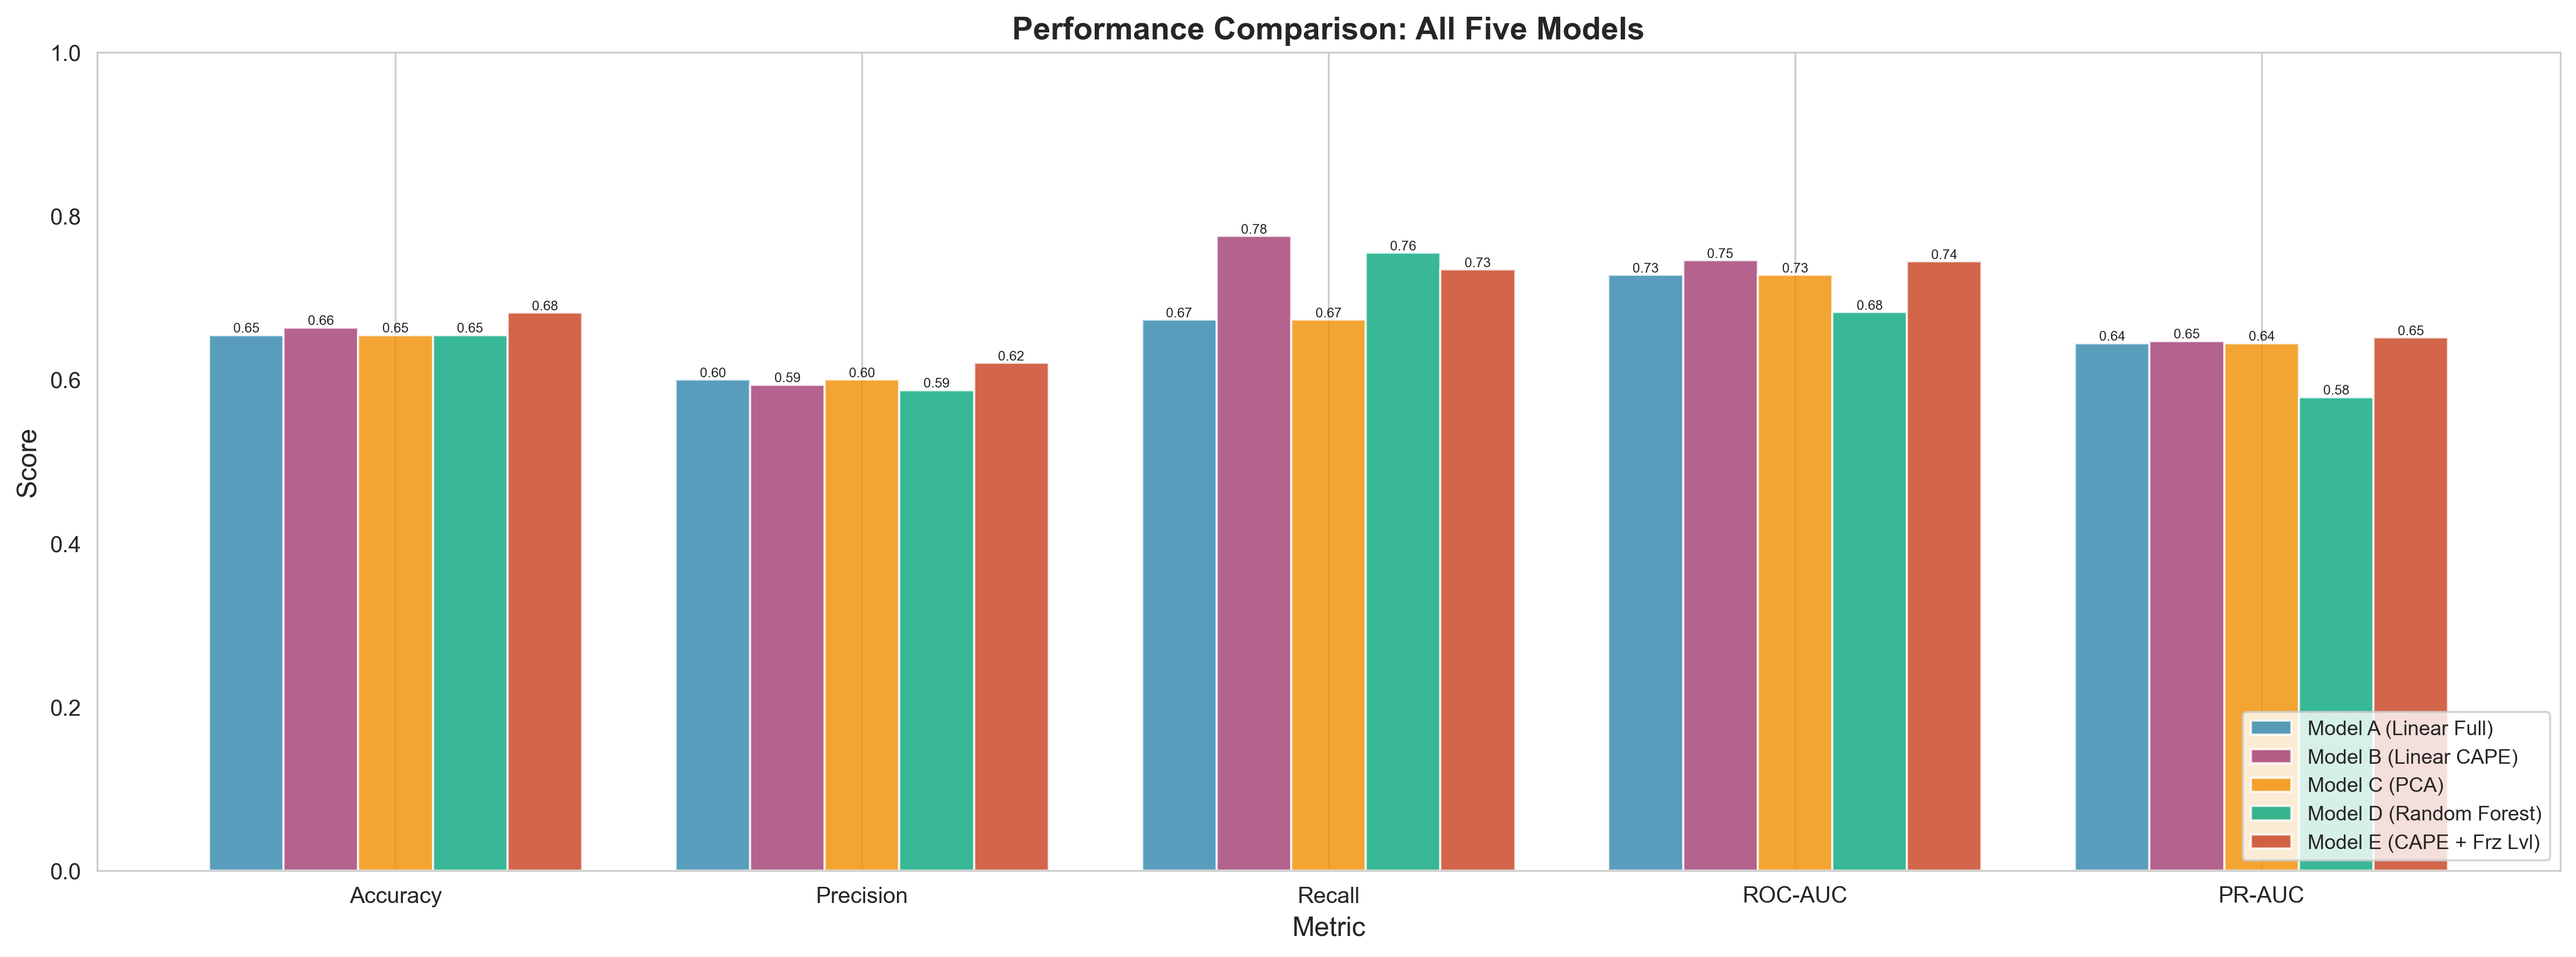
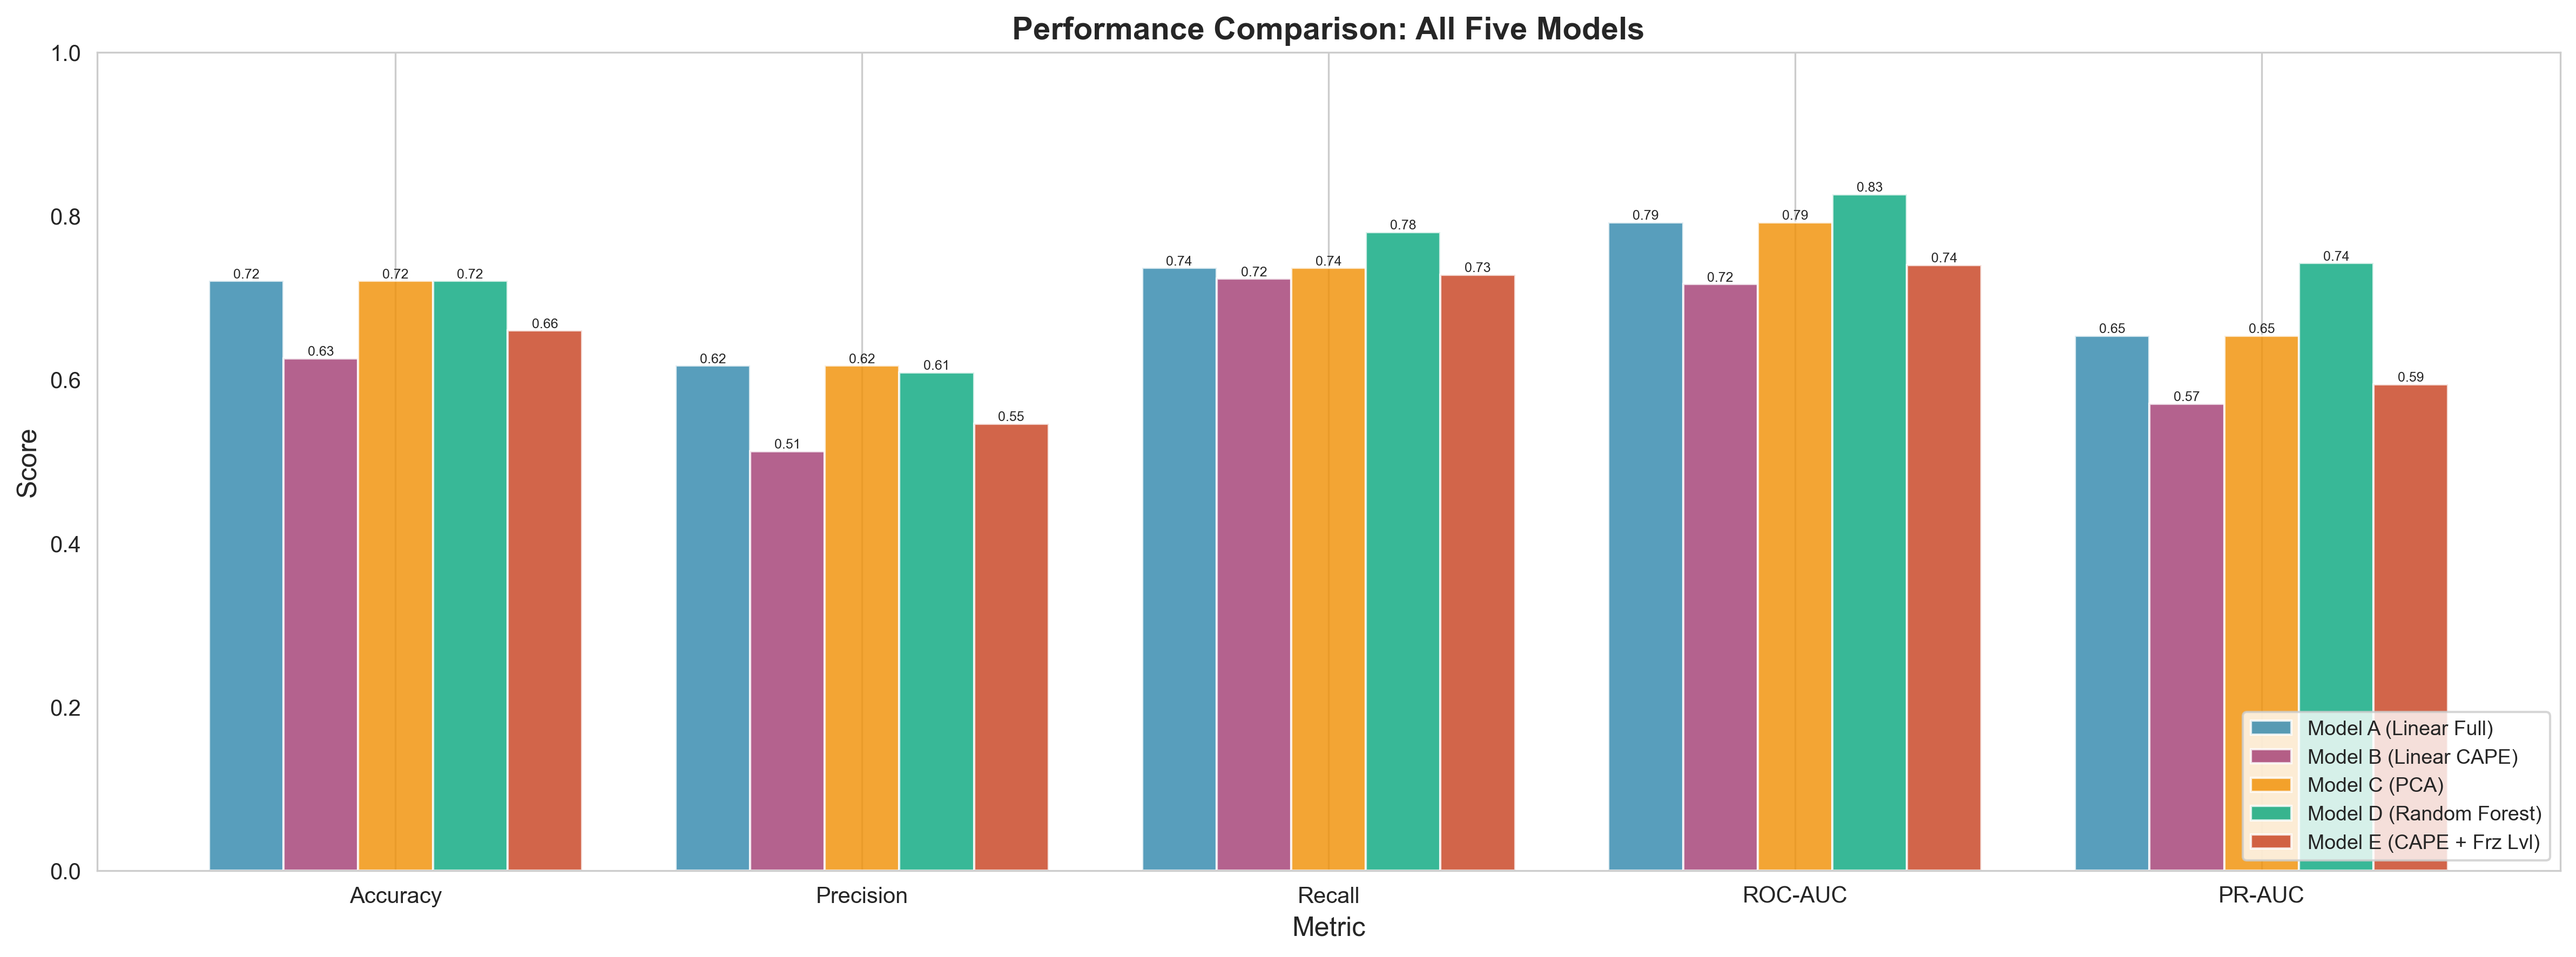
using boxed dataset

diff --git a/HailAnalysis.py b/HailAnalysis.py
@@ -31,7 +31,7 @@ os.makedirs('figures', exist_ok=True)
 # SECTION 1: LOAD DATA
 # =============================================================================
 
-df = pd.read_csv('data/final_dataset.csv')
+df = pd.read_csv('data/final_dataset_boxed.csv')
 df['date'] = pd.to_datetime(df['date'])
 
 print(df.shape)
